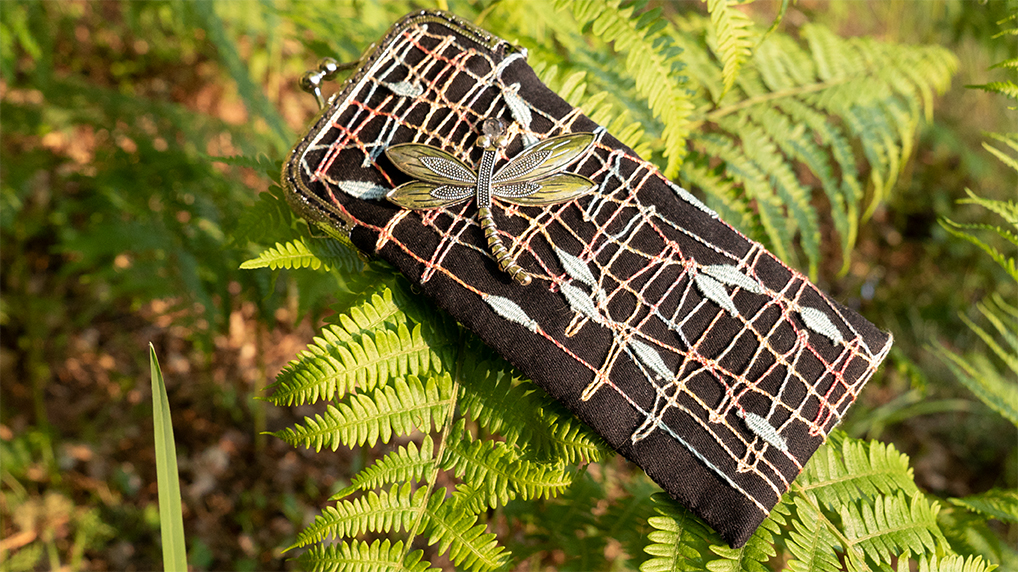
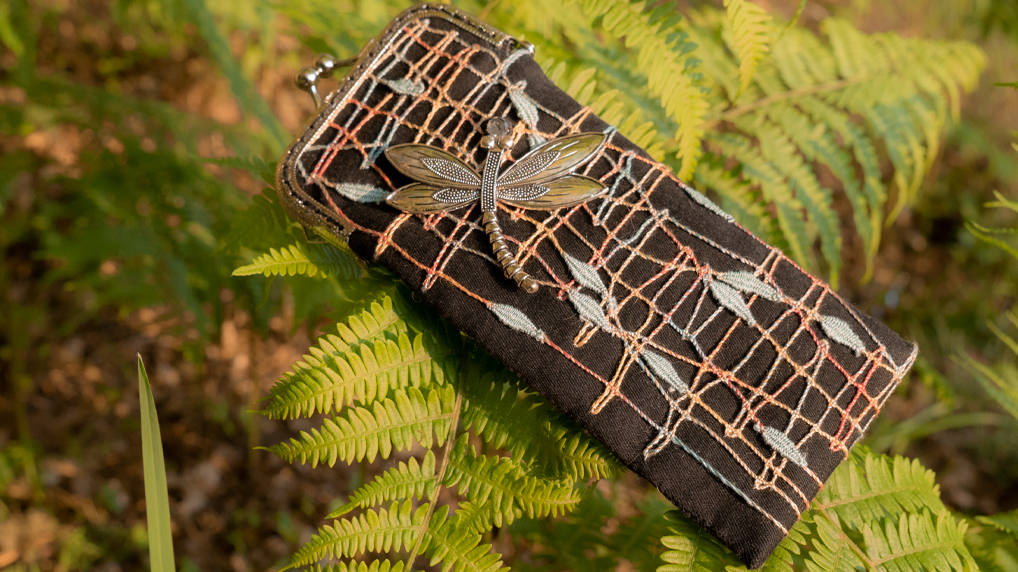
pagina productos pendientes y pulseras

diff --git a/funda-cabalino/index.html b/funda-cabalino/index.html
@@ -57,26 +57,26 @@
             <div class="product-detail wrapper">
                 <div class="product-detail-info">
                     <div class="product-detail-info-img js-popup-gallery">
-                        <a href="/buxo.com/src/img/productos/pendientedorado.jpg">
-                            <img src="/buxo.com/src/img/productos/pendientedorado.jpg" alt=""/>
+                        <a href="/buxo.com/src/img/productos/funda2.jpg">
+                            <img src="/buxo.com/src/img/productos/funda2.jpg" alt=""/>
                         </a>
-                        <a href="/buxo.com/src/img/productos/pendientedorado2.jpg">
-                           <img src="/buxo.com/src/img/productos/pendientedorado2.jpg" alt=""/>
+                        <a href="/buxo.com/src/img/productos/fundalibelula.jpg">
+                            <img src="/buxo.com/src/img/productos/fundalibelula.jpg" alt=""/>
                         </a>
-                        <a href="/buxo.com/src/img/productos/pendientedorado3.jpg">
-                            <img src="/buxo.com/src/img/productos/pendientedorado3.jpg" alt=""/>
+                        <a href="/buxo.com/src/img/productos/fundalibelula2.jpg">
+                            <img src="/buxo.com/src/img/productos/fundalibelula2.jpg" alt=""/>
                         </a>
                     </div>
                     <div class="product-detail-info-description">
-                        <h2>Pendientes Solpor</h2>
-                        <p>Los pendientes Solpor están hechos de forma artesanal, trabajado con el punto de araña de encaje de bolillos.</p>
-                        <p>Todos los pendientes son personalizables en color y patrón.</p>
-                        <p>Escoge el color de hilo que más te guste. Consúltanos sin compromiso</p>
+                        <h2>Funda gafas Cabaliño do Demo</h2>
+                        <p>La funda Cabaliño do demo está hecha de forma artesanal, trabajando la puntilla y añadiendola a la tela de algodón.</p>
+                        <p>Todas las mascarillas son personalizables en color y patrón.</p>
+                        <p>Escoge el color de hilo y tela que más te guste. Consúltanos sin compromiso</p>
                         <h3>Características</h3>
                         <ul>
-                            <li>Rombo con punto de araña central.</li>
-                            <li>Hilo 100% algodón.</li>
-                            <li>Enganche y estructura de acero.</li>
+                            <li>Detalle libélula en metal.</li>
+                            <li>Tela e hilo 100% Algodón.</li>
+                            <li>Cierre de acero.</li>
                         </ul>
                     </div>
                 </div>
@@ -86,7 +86,7 @@
                     <p>35€</p>
                     <div class="product-detail-options-tags">
                         <ul>
-                            <li><a href="/buxo.com/pendientes">Pendientes</a></li>
+                            <li><a href="/buxo.com/fundas">Fundas</a></li>
                         </ul>
                     </div>
                     <div class="product-detail-options-color">
@@ -161,4 +161,3 @@
         <script src="/buxo.com/js/main.js"></script>
 	</body>
 </html>
-

diff --git a/pulsera-redes/index.html b/pulsera-redes/index.html
@@ -57,36 +57,33 @@
             <div class="product-detail wrapper">
                 <div class="product-detail-info">
                     <div class="product-detail-info-img js-popup-gallery">
-                        <a href="/buxo.com/src/img/productos/pendientedorado.jpg">
-                            <img src="/buxo.com/src/img/productos/pendientedorado.jpg" alt=""/>
+                        <a href="/buxo.com/src/img/productos/pulseraredes.jpg">
+                            <img src="/buxo.com/src/img/productos/pulseraredes.jpg" alt=""/>
                         </a>
-                        <a href="/buxo.com/src/img/productos/pendientedorado2.jpg">
-                           <img src="/buxo.com/src/img/productos/pendientedorado2.jpg" alt=""/>
-                        </a>
-                        <a href="/buxo.com/src/img/productos/pendientedorado3.jpg">
-                            <img src="/buxo.com/src/img/productos/pendientedorado3.jpg" alt=""/>
+                        <a href="/buxo.com/src/img/productos/pulseraredes2.jpg">
+                           <img src="/buxo.com/src/img/productos/pulseraredes2.jpg" alt=""/>
                         </a>
                     </div>
                     <div class="product-detail-info-description">
-                        <h2>Pendientes Solpor</h2>
-                        <p>Los pendientes Solpor están hechos de forma artesanal, trabajado con el punto de araña de encaje de bolillos.</p>
-                        <p>Todos los pendientes son personalizables en color y patrón.</p>
-                        <p>Escoge el color de hilo que más te guste. Consúltanos sin compromiso</p>
+                        <h2>Pulsera Redes</h2>
+                        <p>La pulsera Redes esta hecha con encaje y piedras swarovski.</p>
+                        <p>Todas las pulseras son personalizables en color y patrón.</p>
+                        <p>Escoge el color de hilo y piedra que más te guste. Consúltanos sin compromiso</p>
                         <h3>Características</h3>
                         <ul>
-                            <li>Rombo con punto de araña central.</li>
+                            <li>Piedras swarovski.</li>
                             <li>Hilo 100% algodón.</li>
-                            <li>Enganche y estructura de acero.</li>
+                            <li>Cierre de acero.</li>
                         </ul>
                     </div>
                 </div>
 
                 <div class="product-detail-options">
                     <h4>Precio</h4>
-                    <p>35€</p>
+                    <p>30€</p>
                     <div class="product-detail-options-tags">
                         <ul>
-                            <li><a href="/buxo.com/pendientes">Pendientes</a></li>
+                            <li><a href="/buxo.com/pulseras">Pulseras</a></li>
                         </ul>
                     </div>
                     <div class="product-detail-options-color">
@@ -161,4 +158,3 @@
         <script src="/buxo.com/js/main.js"></script>
 	</body>
 </html>
-

diff --git a/pendientes-margarida/index.html b/pendientes-margarida/index.html
@@ -65,25 +65,25 @@
                         </a>
                     </div>
                     <div class="product-detail-info-description">
-                        <h2>Pendientes Solpor</h2>
-                        <p>Los pendientes Solpor están hechos de forma artesanal, trabajado con el punto de araña de encaje de bolillos.</p>
+                        <h2>Pendientes Margarida</h2>
+                        <p>Los pendientes Margarida están hechos de forma artesanal, trabajado con encaje de bolillos.</p>
                         <p>Todos los pendientes son personalizables en color y patrón.</p>
-                        <p>Escoge el color de hilo que más te guste. Consúltanos sin compromiso</p>
+                        <p>Escoge el color de hilo y piedra que más te guste. Consúltanos sin compromiso</p>
                         <h3>Características</h3>
                         <ul>
-                            <li>Rombo con punto de araña central.</li>
-                            <li>Hilo 100% algodón.</li>
-                            <li>Enganche y estructura plata de ley.</li>
+                            <li>Piedra swarovski.</li>
+                            <li>Hilo de acero.</li>
+                            <li>Enganche plata de ley.</li>
                         </ul>
                     </div>
                 </div>
 
                 <div class="product-detail-options">
                     <h4>Precio</h4>
-                    <p>35€</p>
+                    <p>30€</p>
                     <div class="product-detail-options-tags">
                         <ul>
-                            <li><a href="#">Pendientes</a></li>
+                            <li><a href="/buxo.com/pendientes">Pendientes</a></li>
                         </ul>
                     </div>
                     <div class="product-detail-options-color">

diff --git a/mascarilla-raina/index.html b/mascarilla-raina/index.html
@@ -66,7 +66,8 @@
                     </div>
                     <div class="product-detail-info-description">
                         <h2>Mascarilla Raiña</h2>
-                        <p>La mascarilla Raiña está hecha de forma artesanal, trabajado la puntilla y añadiendola a la tela de doble capa. la tela del interior de la mascarilla es de algodón orgánico, hidrófuga y antibacteriana (homologada).</p>
+                        <p>La mascarilla Raiña está hecha de forma artesanal, trabajando la puntilla y añadiéndola a la tela de doble capa.</p>
+                        <p>La tela del interior de la mascarilla es de algodón orgánico, hidrófuga y antibacteriana (homologada).</p>
                         <p>Todas las mascarillas son personalizables en color y patrón.</p>
                         <p>Escoge el color de hilo y tela que más te guste. Consúltanos sin compromiso</p>
                         <h3>Características</h3>
@@ -80,7 +81,7 @@
 
                 <div class="product-detail-options">
                     <h4>Precio</h4>
-                    <p>60€</p>
+                    <p>75€</p>
                     <div class="product-detail-options-tags">
                         <ul>
                             <li><a href="/buxo.com/mascarillas">Mascarillas</a></li>

diff --git a/pendientes-vermella/index.html b/pendientes-vermella/index.html
@@ -73,17 +73,17 @@
                         <ul>
                             <li>Piedrita de azabache en el centro.</li>
                             <li>Hilo 100% algodón.</li>
-                            <li>Enganche y estructura plata de ley.</li>
+                            <li>Enganche y estructura de acero.</li>
                         </ul>
                     </div>
                 </div>
 
                 <div class="product-detail-options">
                     <h4>Precio</h4>
-                    <p>35€</p>
+                    <p>30€</p>
                     <div class="product-detail-options-tags">
                         <ul>
-                            <li><a href="#">Pendientes</a></li>
+                            <li><a href="/buxo.com/pendientes">Pendientes</a></li>
                         </ul>
                     </div>
                     <div class="product-detail-options-color">

diff --git a/tocados/index.html b/tocados/index.html
@@ -66,7 +66,7 @@
 
                 <div class="product-item">
                     <a href="/buxo.com/broche-terrina">
-                        <img src="/buxo.com/src/img/productos/brocheterrina.jpg" alt=""/>
+                        <img src="/buxo.com/src/img/productos/brocheterrina2.jpg" alt=""/>
                         <div class="product-item-info">
                             <h4>Broche/Tocado Terriña</h4>
                             <p>40€</p>
@@ -85,7 +85,7 @@
                 </div>
 
                 <div class="product-item">
-                    <a href="/buxo.com/broche-corteza">
+                    <a href="/buxo.com/broche-poinsettia">
                         <img src="/buxo.com/src/img/productos/brochepoinsettia.jpg" alt="pulsera de encaje de bolillos marron"/>
                         <div class="product-item-info">
                             <h4>Broche/Tocado Poinsettia</h4>

diff --git a/fundas/index.html b/fundas/index.html
@@ -55,11 +55,11 @@
             <section class="ly-grid product-list">
 
                 <div class="product-item">
-                    <a href="/buxo.com/funda-cabalinododemo">
+                    <a href="/buxo.com/funda-cabalino">
                         <img src="/buxo.com/src/img/productos/funda2.jpg" alt="Funda para gafas con boca metálica, fondo negro con picado de encaje de bolillos en colores y broche de libelula en plata"/>
                         <div class="product-item-info">
                             <h4>Funda Cabaliño do Demo</h4>
-                            <p>40€</p>
+                            <p>35€</p>
                         </div>
                     </a>
                 </div>

diff --git a/broche-terrina/index.html b/broche-terrina/index.html
@@ -60,6 +60,9 @@
                         <a href="/buxo.com/src/img/productos/brocheterrina.jpg">
                             <img src="/buxo.com/src/img/productos/brocheterrina.jpg" alt=""/>
                         </a>
+                        <a href="/buxo.com/src/img/productos/brocheterrina2.jpg">
+                            <img src="/buxo.com/src/img/productos/brocheterrina2.jpg" alt=""/>
+                        </a>
                         <a href="/buxo.com/src/img/productos/brocheterrinadetalle.jpg">
                             <img src="/buxo.com/src/img/productos/brocheterrinadetalle.jpg" alt=""/>
                         </a>

diff --git a/pulseras/index.html b/pulseras/index.html
@@ -74,6 +74,16 @@
                     </a>
                 </div>
 
+                <div class="product-item">
+                    <a href="/buxo.com/pulsera-redes">
+                        <img src="/buxo.com/src/img/productos/pulseraredes.jpg" alt="pulsera de encaje de bolillos purpura"/>
+                        <div class="product-item-info">
+                            <h4>Pulsera Redes</h4>
+                            <p>30€</p>
+                        </div>
+                    </a>
+                </div>
+
             </section>
             <!-- <a href="">Más productos</a> -->
         </main>

diff --git a/pulsera-medusa/index.html b/pulsera-medusa/index.html
@@ -80,10 +80,10 @@
 
                 <div class="product-detail-options">
                     <h4>Precio</h4>
-                    <p>35€</p>
+                    <p>30€</p>
                     <div class="product-detail-options-tags">
                         <ul>
-                            <li><a href="#">Pendientes</a></li>
+                            <li><a href="/buxo.com/pulseras">Pulseras</a></li>
                         </ul>
                     </div>
                     <div class="product-detail-options-color">

diff --git a/pulsera-terrina/index.html b/pulsera-terrina/index.html
@@ -80,10 +80,10 @@
 
                 <div class="product-detail-options">
                     <h4>Precio</h4>
-                    <p>40€</p>
+                    <p>30€</p>
                     <div class="product-detail-options-tags">
                         <ul>
-                            <li><a href="#">Pendientes</a></li>
+                            <li><a href="/buxo.com/pulseras">Pulseras</a></li>
                         </ul>
                     </div>
                     <div class="product-detail-options-color">

diff --git a/sombrero-cala/index.html b/sombrero-cala/index.html
@@ -83,7 +83,7 @@
                     <p>75€</p>
                     <div class="product-detail-options-tags">
                         <ul>
-                            <li><a href="#">Pendientes</a></li>
+                            <li><a href="/buxo.es/tocados">Tocados</a></li>
                         </ul>
                     </div>
                     <div class="product-detail-options-color">
